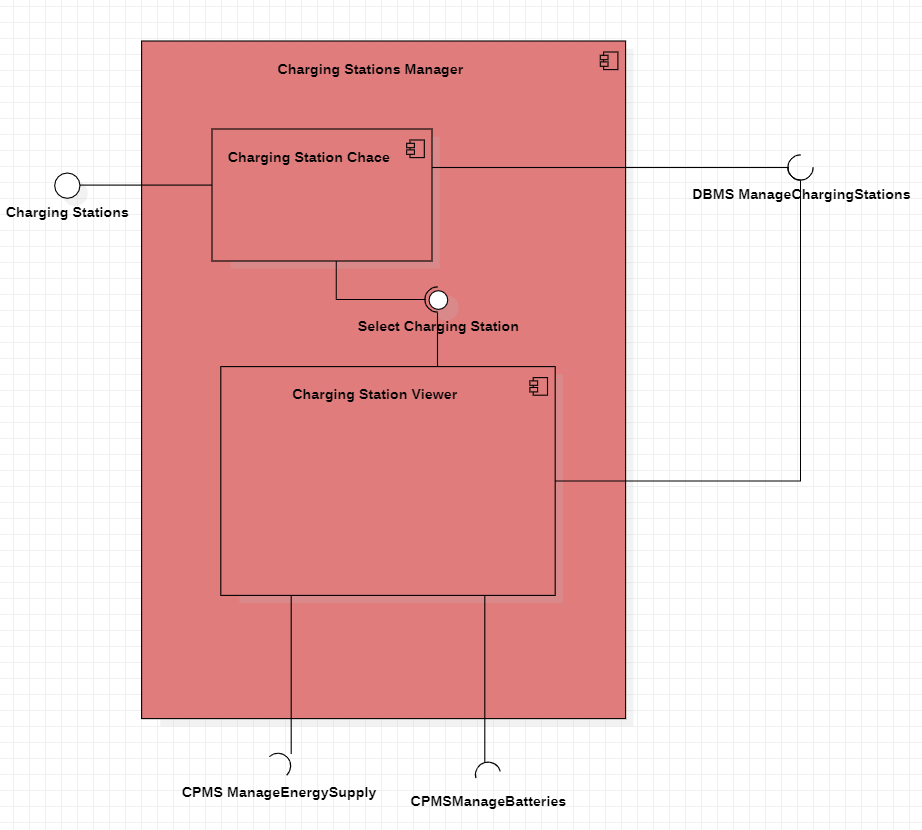
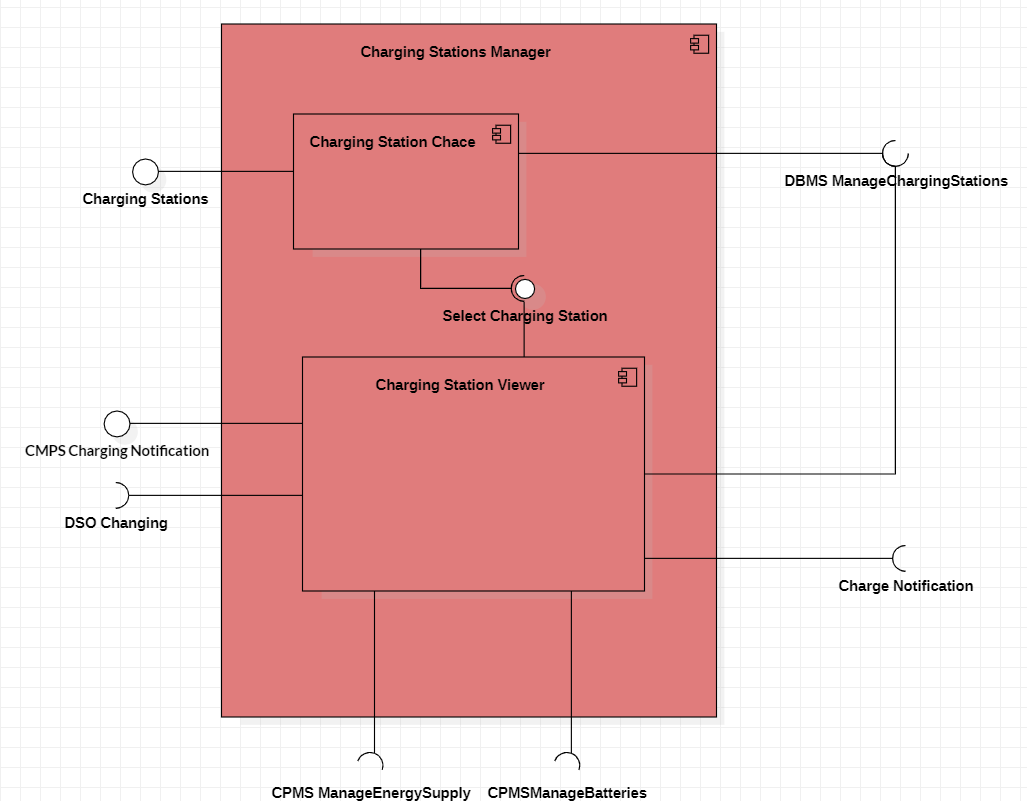
Completed Design Document and created final PDF in DeliveryFolder

diff --git a/RASD/project.tex b/RASD/project.tex
@@ -56,7 +56,7 @@
 \centering{\large{
 Academic Year 2022/2023 \\
 \vspace{10mm}
-Milano, -/12/2022 \\
+Milano, 07/01/2023 \\
 \vspace{2mm}
 Version 1.0
 }}
@@ -96,7 +96,7 @@ The CPO Workers can use the web application to manage their associated charging 
 \end{itemize}
 \section{Revision history}
 \begin{itemize}
-\item |-12-2022 Version 1.0.
+\item 07-01-2023 Version 1.0.
 \end{itemize}
 \section{Reference Documents}
 \begin{itemize}
@@ -130,7 +130,7 @@ The figure \ref{fig:general-component-diagram} is a \textit{Component Diagram} f
 
 \begin{figure}[hp]
 \centering
-\includegraphics[scale=0.4 ]{img/GENERAL DIAGRAM_v2.png}
+\includegraphics[scale=0.4 ]{img/GENERAL DIAGRAM.png}
 \caption{UML Component Diagram}
 \label{fig:general-component-diagram}
 \end{figure}
@@ -166,21 +166,21 @@ reported, for the sake of readability. The various components are now described 
 \label{fig:accessmgr-component}
 \end{figure}
 
-\item \textbf{Charging Stations Manager}: it permits to view all charging stations associated to a certain CPMS and do all management operations for each one of them. It requires to communicate, by some interfaces, with the \textit{DBMS} component and the associated CPMS. If set properly, the sub-component \textit{Charging Station Viewer} can also interact automatically with the \textit{CPMS API}. It is shown in the diagram in figure \ref{fig:chargingstationsmgr-component}.
+\item \textbf{Charging Stations Manager}: it permits to view all charging stations associated to a certain CPMS and do all management operations for each one of them. It requires to communicate, by some interfaces, with the \textit{DBMS} component , the \textit{Notification Manager} , the \textit{DSOs Manager}and the associated CPMS. If set properly, the sub-component \textit{Charging Station Viewer} can also interact automatically with the \textit{CPMS API}. It is shown in the diagram in figure \ref{fig:chargingstationsmgr-component}.
 
 
 \begin{figure}[htp]
 \centering
-\includegraphics[scale=0.6]{img/CHARGING STATION MANAGER.png}
+\includegraphics[scale=0.5]{img/CHARGING STATION MANAGER.png}
 \caption{UML Component Diagram for \textit{Charging Stations Manager} component}
 \label{fig:chargingstationsmgr-component}
 \end{figure}
 
-\item \textbf{Notification Manager}: it sends to the End-User the information about the state of a charging process. Indeed, it is connected to the \textit{CPMS API} and the \textit{Mobile Application} component via interfaces.
+\item \textbf{Notification Manager}: it sends to the End-User the information about the state of a charging process. Indeed, it is connected to the \textit{Charging Station Manager} and the \textit{Mobile Application} component via interfaces.
 
 \item \textbf{Map Manager}: it builds the charging station map interacting with the \textit{DBMS} and with the \textit{Maps API}
 
-\item \textbf{DSOs Manager}: it deals with everything about the management of DSO agreements. It is connected with the \textit{DSO API} in order to capture the DSOs offers and contact a DSO in order to make an energy furniture agreement and is also connected to the \textit{DBMS} with the purpose to get and save all DSO energy furniture of a certain CPMS.
+\item \textbf{DSOs Manager}: it deals with everything about the management of DSO agreements. It is connected with the \textit{DSO API} in order to capture the DSOs offers and contact a DSO in order to make an energy furniture agreement and is also connected to the \textit{DBMS} with the purpose to get all DSO energy furniture of a certain CPMS.
 
 \item \textbf{DBMS}: this component manages the operational database.
 
@@ -234,7 +234,7 @@ In the sequence diagram of figure \ref{fig:seq-loadMap} the functionality which 
 \\\\
 In the sequence diagram of figure \ref{fig:seq-booking} the whole charge booking process is presented together with relations between all involved components. First of all, a logged-in End-User must select a charging station, a socket type, and a date from the \textbf{Mobile Application}. After that, the router will receive a get availability request from the involved \textbf{eMSP} and will route it to \textbf{Booking Manager}, that will get from \textbf{DBMS} all availability for that specific day. If there is at least one are all sent to \textbf{Mobile Application}, otherwise, an error is sent back. At this point, the End-User must select, through the \textbf{Mobile Application}, a time slot from the available ones, a vehicle, and also a payment method from the ones connected to his account. A booking request will after follow the same path as before in order to reach the \textbf{Booking Manager}, which will exploit the \textbf{Payment API} in order to check if the selected payment method has enough funds for the payment and provisionally block them. If that operation has success the new booking is stored in the \textbf{DBMS} and a success message is sent back to the \textbf{Mobile Application}, otherwise, a booking error is returned.
 \\\\
-In the sequence diagram of figure \ref{fig:seq-charge} is presented how all components react and interact with each other during a whole charging process that is assumed to have been already booked. First of all, a correctly logged-in End-User, which is assumed to be near the right charging column, must click on the start charging button of the \textbf{Mobile Application}, which will send the request with the associated \textit{id} to the \textbf{Router}, trough the \textbf{eMSP}. Then, the request is routed to the \textbf{Booking Manager} that will ask all dates about the specific charge to the \textbf{DBMS} and then will check them. If the charge exists and it's the right time, the \textbf{Booking Manager} sends, through the \textbf{Router}, an \textit{abilitateCharge} message to the \textbf{Charging Station Manager} for that specific charge at that specific time in that specific socket of that specific charging station. After that, the \textbf{Booking Manager} sends also a \textit{charge\_can\_start} message to the mobile application. At this point, the user approaches his mobile phone to the RFID reader of the charging socket and the \textbf{Charging Station API} sends a get enabling message to the \textbf{Charging Station Manager} for the specific charge \textit{id} obtained through RFID. If the \textit{id} is correct the charge starts and the \textbf{Charging Station API} sends periodically to the \textbf{Charging Station Manager} the current status of recharge, which will be reported, firstly to the \textbf{DBMS} and secondly, through the \textbf{Router}, as a \textit{current\_status} messages to the \textbf{Mobile Application} that displays charging status to the End-User. When the charge is completed, the \textbf{Charging Station API} communicates it to the \textbf{Charging Station Manager} that will save it to the \textbf{DBMS} and then ask, always through the \textbf{Router}, to the \textbf{Notification Manager} to send a notification of completed charge directly to the \textbf{Mobile Application}, that will show it to the user that will consequently remove the plug. To keep this heavy diagram a little cleaner has not been represented the fact that when the charge is complete, funds are charged to the End-User payment method from \textbf{Payment API}, and also this information is stored in the \textbf{DBMS}.
+In the sequence diagram of figure \ref{fig:seq-charge} is presented how all components react and interact with each other during a whole charging process that is assumed to have been already booked. First of all, a correctly logged-in End-User, which is assumed to be near the right charging column, must click on the start charging button of the \textbf{Mobile Application}, which will send the request with the associated \textit{id} to the \textbf{Router}, trough the \textbf{eMSP}. Then, the request is routed to the \textbf{Booking Manager} that will ask all dates about the specific charge to the \textbf{DBMS} and then will check them. If the charge exists and it's the right time, the \textbf{Booking Manager} sends an \textit{enableCharge} message to the \textbf{CPMS} for that specific charge at that specific time in that specific socket of that specific charging station. After that, the \textbf{Booking Manager} sends also a \textit{charge\_ok} message to the mobile application. At this point, the user inserts the plug of his car into the charging socket and the \textbf{CPMS API} checks if the charge for that car is enabled. If it's the case the charge starts and the \textbf{CPMS API} sends periodically to the \textbf{Charging Station Manager} the current status of recharge, which will be reported, firstly to the \textbf{DBMS} and secondly to the \textbf{Notification Manager} that will send it to the \textbf{Mobile Application}, which displays charging status to the End-User. When the charge is completed, the \textbf{CPMS API} communicates it to the \textbf{Charging Station Manager} that will save it to the \textbf{DBMS} and then ask to the \textbf{Notification Manager} to send a notification of completed charge directly to the \textbf{Mobile Application}, that will show it to the user that will consequently remove the plug. To keep this heavy diagram a little cleaner has not been represented the fact that when the charge is complete, funds are charged to the End-User payment method from \textbf{Payment API}, and also this information is stored in the \textbf{DBMS}.
 \\\\
 In the sequence diagram of figure \ref{fig:seq-selectDSO} is presented the process of DSO selection from the CPOW point of view by showing how different involved components communicate with each other. First of all, an already logged-in CPOW must ask from the \textbf{Web Application} for all available DSOs for a specific charging station (this depends on the charging station location, i.e. different geographical areas may have different DSOs). Then a get DSOs request will follow the following path: \textbf{Web Application}-\textbf{Router}-\textbf{DSO Manager}. This last component will after get from \textbf{DSO API} the updated list of all available DSOs, check which ones are available for the specific charging station (after getting charging station data from \textbf{DBMS}), and then finally return back a list that is shown by the \textbf{Web Application}. At this point, the CPOW, through his web interface, selects one DSO and a change DSO request travels until reaches \textbf{Charging Station Manager}, that checks if the selected DSO is already active for that specific charging station. If it's not the case, a change DSO request is sent firstly to the \textbf{DSO Manager} that will communicate to \textbf{DSO API} the change and secondly another request is sent to \textbf{CPMS API}, in order to apply the effective changing to the charging station. At the end, the new DSO status for the charging station is stored from the \textbf{Charging Station Manager} to the \textbf{DBMS} and a success message is sent back to the \textbf{Web Application}. On the other hand, if the DSO is already selected for that specific charging station the system returns a message, and nothing changes.
 \\\\
@@ -455,7 +455,7 @@ Table \ref{tab:req-trace} has been added to highlight for each component what re
     Bookings Manager & R9, R10, R11, R14\\ \hline
     Map Manager & R1, R2, R9 \\ \hline
     DSOs Manager &  R19\\ \hline
-    Charging Station Manager & R4, R15, R17, R19, R21, R24, R26, R27 \\ \hline
+    Charging Station Manager & R4, R12, R13, R15, R17, R19, R21, R24, R26, R27 \\ \hline
     DBMS & R1, R2, R4, R6, R7, R8, R15, R26, R27 \\ \hline
 
   \end{tabular}
@@ -474,7 +474,7 @@ In the following lines is explained how the requirements are provided by the com
     \item{[R9]} \label{R9} The system must allow registered end users to book a charge in a specific charging station. The Mobile Application allows the user to visualize the charging stations map provided by the Map Manager and fill and confirm a charge booking through the Bookings Manager.
     \item{[R10]} \label{R10} The system must allow end users to unlock a charging socket if they have booked it and it's the correct time-slot. The Mobile Application component allows the user to visualize a personal booking page where it's possible to unlock the associated charging socket by the Bookings Manager that communicates with the related CPMS.
     \item{[R11]} \label{R11} The system must let a charge start if a vehicle is correctly connected and the charging socket is unlocked. This requirement is provided by the Bookings Manager component that directly communicates with the related CPMS.
-    \item{[R12]} \label{R12} The system must show to end users the charging status (e.g. remaining time to complete charge). This requirement is met by the Mobile Application component and the Notification Manager component. The Mobile Application component provides the End-User with the information sent by the Notification Manager, which is directly connected to the related CPMS.
+    \item{[R12]} \label{R12} The system must show to end users the charging status (e.g. remaining time to complete charge). This requirement is met by the Mobile Application component and the Notification Manager component. The Mobile Application component provides this information to the  End-User by the Notification Manager, which is directly connected to the Charging Stations Manager..
     \item{[R13]} \label{R13} The system must notify the end-user when the charge is complete. This requirement is provided in the same way as requirement 12
     \item{[R14]} \label{R14} When a charging process is correctly finished the system must charge on the end user selected payment system the correct import. This requirement is provided by the Bookings Manager component that is directly connected with the right Payment API.
     \item{[R15]} \label{R15} The system must allow CPOW to register a new charging station through its physical id. The Web application allows a CPOW to insert all information related to the registration which are checked and than saved by the Charging Station Manager that communicates with the DBMS.
@@ -491,7 +491,7 @@ In the following lines is explained how the requirements are provided by the com
     \item{[R26]} \label{R26} The system must allow CPOWs to view all the bookings of a certain charging station associated to them and their status. **
     \item{[R27]} \label{R27} The system must allow CPOWs to set prices and special offers for a certain charging station associated to him. **
 \end{itemize}
-* R16, R18, R20, R22, R23, R25 requirements refers to the functions done automatically by the CPMS.\newline
+* R16, R18, R20, R22, R23, R25 requirements refers to the functions that can be done automatically by the Charging Stations Manager interacting with a CPMS.\newline
 ** These requirement are provided by the Web Application component and the Charging Station Component. The Web Application component allows the CPOW to input the different decisions, while the Charging Station component executes them by communicating directly with the relevant CPMS. In the case of requirements 26 and 27, the DBMS is used to store the input information.
 
 \chapter{Implementation, integration and test plan}
@@ -500,51 +500,124 @@ The implementation and test plan is defined starting from the general component 
 to be available from the beginning. The system is to be developed according to the following five subparts :
 \begin{enumerate}
     \item \textbf{Data}\newline
-    This subpart consists of the database and the DBMS that handles it. This subpart is the most important to implement since is the core of the system.
-    \item \textbf{CPO Managers*}\newline
-    This subpart consists of the components that relays on the CPO Worker experience ( DSOs and Charging Station Manager ). Charging Station Manager component will be implemented as first. In order to do the testing operation both components will need a stub of the DBMS.
-    \item \textbf{End-User Managers}*\newline
-    This subpart consists of the components that relays on the End-User experience ( Notification, Access, Bookings and Map Manager ). The Bookings Manager component will be implemented as first. In order to do the testing operation, every component will need a stub of the DBMS, while the Notification Manager component will need also a stub of the Mobile Application component.
+    This subpart consists of the database and the \textit{DBMS} that handles it. This subpart is the most important to implement since is the core of the system.
+    \item \textbf{First Managers}\newline
+    After the installation of the Data subpart follows the implementation of the Application Logic. First of all are created the "Manager" components that are designated to manage the structure on which the entire system is based, i.e. the \textit{Access Manager}, the \textit{Bookings Manager} and the \textit{Charging Stations Manager}, that in fact handles respectively
+    the Accounts, the Charge Bookings and the Charging Stations.
+    \item \textbf{Second Managers}\newline
+    This subpart consists of the remainder of the "Manager" components, i.e. the \textit{DSOs Manager} , the \textit{Notification Manager} and the \textit{Map Manager}.
     \item \textbf{Router}\newline
-    When all the previous components implementation is finished the Router component can be implemented. Note that the Router component need a stub of all Manager components in order to do the testing operation
+    When all the previous components implementation is finished the Router component can be implemented.
     \item \textbf{Client side}\newline
     Finally the presentation layer is implemented. It is important to test the Mobile Application component on various types of mobile devices (smart-phones and tablets), with different versions of Android and iOS. The same holds for the Web Application that will need tests on various browsers (Google Chrome, Mozilla Firefox, Microsoft Edge), versions and operating systems.
 \end{enumerate}
-* Sub parts 2 and 3 constitute the Back-End of the system and can be implemented in parallel since they are independent of each other.
+In order to do the unit tests some components will need stubs :
+\begin{itemize}
+    \item \textit{Access Manager}, \textit{Bookings Manager}, \textit{Map Manager}, \textit{DSOs Manager} and \textit{Charging Stations Manager} will need a stub for the \textit{DBMS}.
+    \item \textit{DSOs Manager} will need a stub for the \textit{Charging Stations Manager}.
+    \item \textit{Maps Manager} will need a stub for the \textit{Bookings Manager}.
+    \item \textit{Notification Manager} will need a stub for the \textit{Mobile Application}.
+    \item \textit{Router} will need a stub for all the "Manager" components.
+    \item \textit{Mobile Application} will need a stub for the \textit{eMSP}.
+    \item \textit{eMSP} and \textit{Web Application} will need a stub for the \textit{Router}.
+\end{itemize}
+
 \section{Integration testing}
 Following the implementation order explained above, has been chosen a \textbf{bottom-up} approach as integration testing strategy. The choice of this testing technique is clearly based on the evident hierarchical structure of the system. Note that as a consequence it will be necessary to construct drivers for each module and when a driver will be replaced by module the integration tests need to be checked again. Has been also decided to integrate elements of a \textbf{critical-module-first} approach in order to give precedence to the fundamental elements of the system in order to conduct a more important testing on them and find system-breaking bugs as early as possible. The figures below helps to practically understand the integration order of the components.\newline
 \begin{enumerate}
-    \item \textbf{DBMS}\par
+    \item \textbf{First Managers}\\
+    The integration starts with the First Managers components subpart since the \textit{DBMS} and databases are solutions that are commercially available and they only need to be configured to communicate properly with the rest of the system. At this step is possible to observe how Accounts, Charge Bookings and Charging Stations are generated, are stored and how interact with prevoius istances saved.\newline$ $\newline$ $\newline$ $\newline\par
     \begin{minipage}{\linewidth}
         \centering
         \includegraphics[scale=0.3]{img/INTEGRATION_1.png}
-        \captionof{figure}{Integration DBMS}
+        \captionof{figure}{Integration First Managers}
     \end{minipage}
 
-    \item \textbf{Back-End}\par
+    $ $\newline
+    $ $\newline
+    $ $\newline
+    $ $\newline
+    $ $\newline
+
+    \item \textbf{Second Managers}\\
+    Then Second Managers components can be integrated\newline$ $\newline$ $\newline\par
     \begin{minipage}{\linewidth}
         \centering
-        \includegraphics[scale=0.5]{img/INTEGRATION_2.png}
-        \captionof{figure}{Integration Back-End}
+        \includegraphics[scale=0.3]{img/INTEGRATION_2.png}
+        \captionof{figure}{Integration Second Managers}
     \end{minipage}\newline\newline
 
-    \item \textbf{Router}\par
+    \item \textbf{Router}\\
+    After the Managers components are ready the \textit{Router} can be integrated\newline$ $\newline$ $\newline\par
     \begin{minipage}{\linewidth}
         \centering
-        \includegraphics[scale=0.5]{img/INTEGRATION_3.png}
+        \includegraphics[scale=0.4]{img/INTEGRATION_3.png}
         \captionof{figure}{Integration Router}
     \end{minipage}
 
-    \item \textbf{Client}\par
+    \item \textbf{Client}\\
+    The integration concludes with the Presentation Layer\par
     \begin{minipage}{\linewidth}
         \centering
         \includegraphics[scale=0.5]{img/INTEGRATION_4.png}
         \captionof{figure}{Integration Client}
     \end{minipage}
 \end{enumerate}
-
+After the integration testing has been finished the system testing can be done with the purpose to test the functional and non-functional requirements. This will be mainly load type since the main job of the application is to store information such that personal accounts or bookings, thus is important to observe how it works when handling big amount of data. In the second instance also performance testing has to be done in order to understand how the system responds during a End-User vehicle charging process.
 \chapter{Effort spent}
+\begin{table}[H]
+\centering
 
+Enrico Brunetti\\
+\begin{tabular}{p{2cm}p{1.5cm}p{7cm}}
+\toprule
+\textit{Date} & \textit{Hour} & \textit{Section} \\ \midrule
+21-12-2022 & 3 * & Introduction and Architectural Design \\ \midrule
+22-12-2022 & 2 &  Architectural Design\\ \midrule
+23-12-2022 & 2 &  Architectural Design\\ \midrule
+24-12-2022 & 3 * & Architectural Design \\ \midrule
+27-12-2022 & 3 & Architectural Design \\ \midrule
+28-12-2022 & 2 & Architectural Design \\ \midrule
+29-12-2022 & 2 & Architectural Design \\ \midrule
+30-12-2022 & 3 & Requirements Traceability \\ \midrule
+02-01-2023 & 1.5 * & Architectural Design \\ \midrule
+03-01-2023 & 1.5 * & Architectural Design \\ \midrule
+04-01-2023 & 2.5 * & Architectural Design \\  \midrule
+05-01-2023 & 1.2 &  Architectural Design \\  \midrule
+06-01-2023 & 2 & Implementation, integration and Test Plan \\ \midrule
+07-01-2023 & 5 * & Final Work \\ \midrule
+
+\bottomrule
+\end{tabular}
+\caption[Enrico Brunetti's effort table]{}
+\end{table}
+
+
+\begin{table}[H]
+\centering
+
+Matteo Gionfriddo\\
+\begin{tabular}{p{2cm}p{1.5cm}p{7cm}}
+\toprule
+\textit{Date} & \textit{Hour} & \textit{Section} \\ \midrule
+21-12-2022 & 3 * & Introduction and Architectural Design \\ \midrule
+22-12-2022 & 2.5 &  Architectural Design\\ \midrule
+23-12-2022 & 3 &  Architectural Design\\ \midrule
+24-12-2022 & 3 * & Architectural Design \\ \midrule
+26-12-2022 & 2 & User Interface Design \\ \midrule
+27-12-2022 & 1.5 & User Interface Design \\ \midrule
+28-12-2022 & 2 & Requirements Traceability \\ \midrule
+03-01-2023 & 1.5 * & Architectural Design \\ \midrule
+04-01-2023 & 2.5 * & Architectural Design \\  \midrule
+05-01-2023 & 3 & Implementation, integration and Test Plan \\  \midrule
+06-01-2023 & 2 & Implementation, integration and Test Plan \\ \midrule
+07-01-2023 & 5 * & Final Work \\ \midrule
+
+\bottomrule
+\end{tabular}
+\caption[Matteo Gionfriddo's effort table]{}
+\end{table}
+\textit{* Group work}
 \chapter{References}
 \begin{itemize}
 \item Specification Document: “Assignment RDD AY 2022-2023\_v3.pdf”
